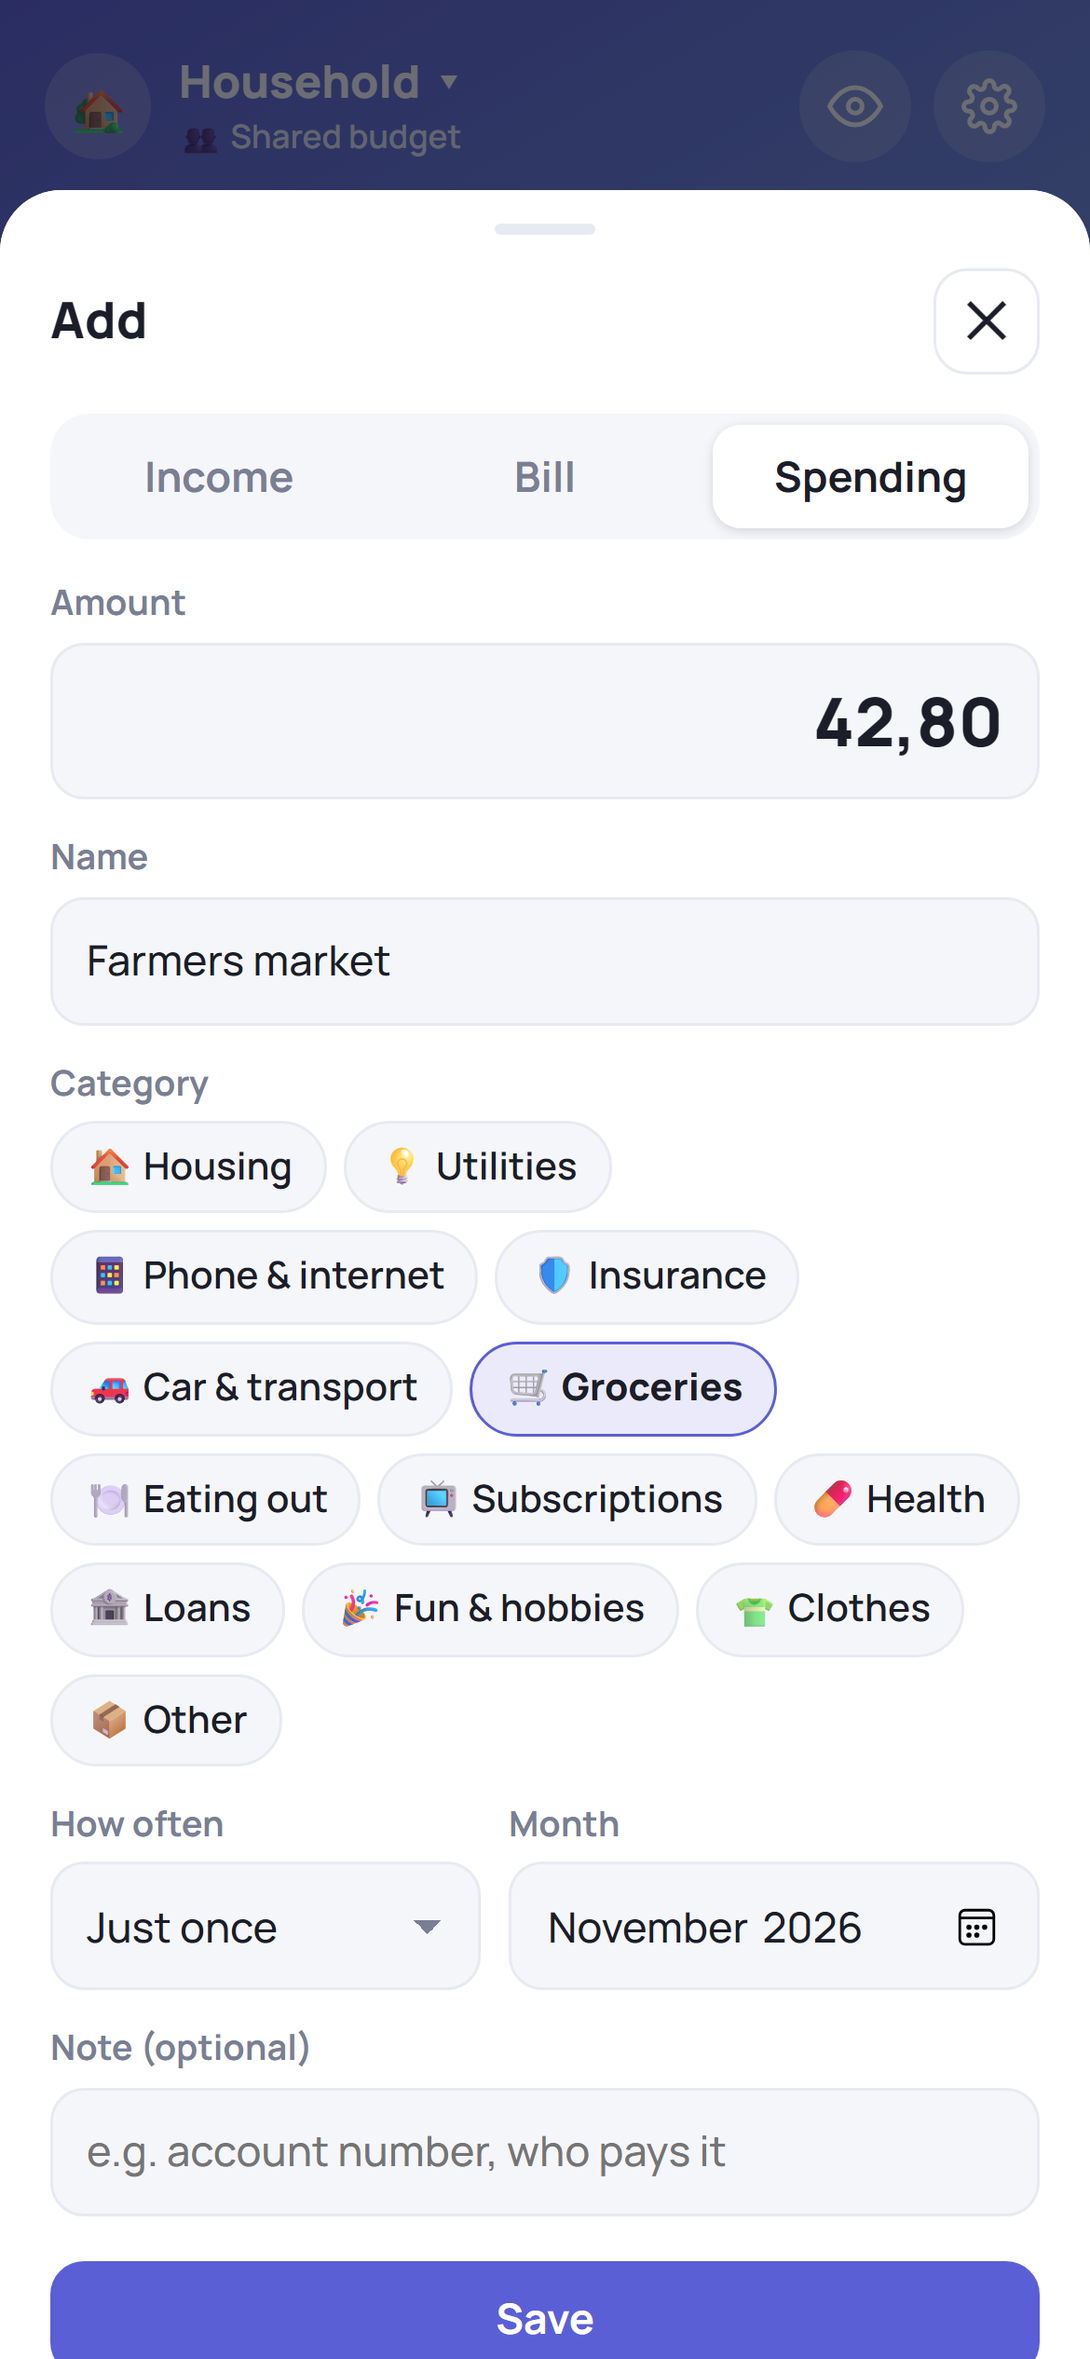
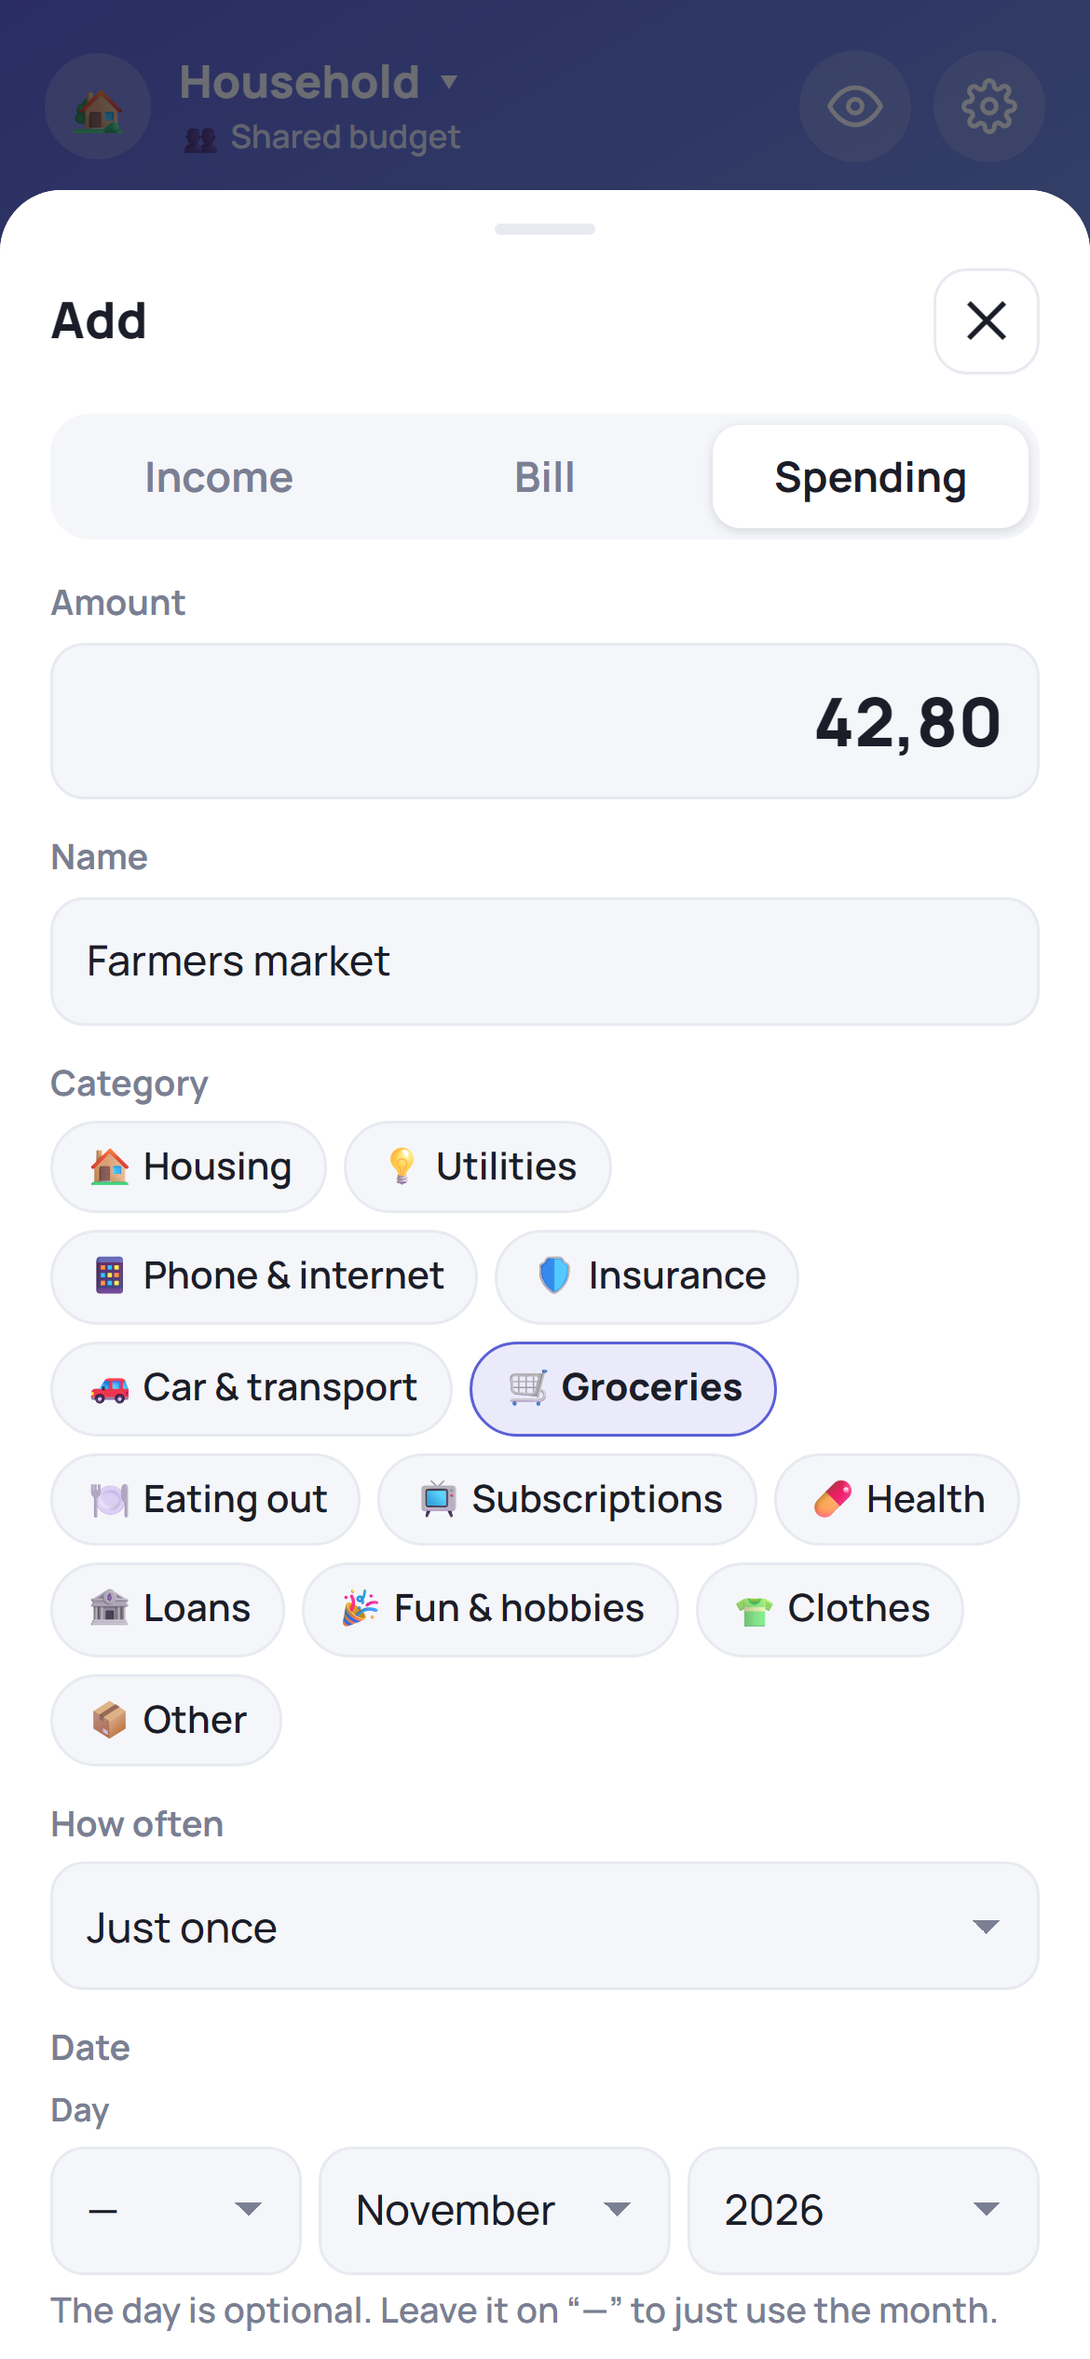
Optional day for every item (day/month/year dropdowns), fill in earlier months from current income/bills, Income higher on the page (20261122e)

diff --git a/docs/index.html b/docs/index.html
@@ -259,8 +259,8 @@ input:focus,select:focus,textarea:focus{outline:2px solid var(--accent);outline-
 .err{color:var(--bad);font-size:.9em;min-height:1.2em;margin:4px 0 8px}
 .demo{background:#00000030;color:#fff;font-size:.78em;font-weight:700;text-align:center;padding:5px 10px}
 </style>
-<script src="config.js?v=20261122d"></script>
-<script type="module" src="cloud.js?v=20261122d"></script>
+<script src="config.js?v=20261122e"></script>
+<script type="module" src="cloud.js?v=20261122e"></script>
 </head>
 <body>
 <div id="app"></div>
@@ -269,7 +269,7 @@ input:focus,select:focus,textarea:focus{outline:2px solid var(--accent);outline-
 
 <script>
 "use strict";
-const APP_VERSION = "20261122d";
+const APP_VERSION = "20261122e";
 // demo mode: no Firebase config, or ?demo on a local test server (never touches the real account)
 const LOCAL = !window.BUDGET_FIREBASE || (/^(localhost|127\.0\.0\.1)$/.test(location.hostname) && /[?&]demo\b/.test(location.search));
 
@@ -535,7 +535,8 @@ function itemRow(i, m) {
   const c = cat(i.category);
   const late = i.type === "bill" && !i.paid && !i.skipped && ((m === thisMonth() && i.due && i.due < today().getDate()) || m < thisMonth());
   const meta = [];
-  if (i.type === "bill" && i.due) meta.push("due " + ord(i.due));
+  if (i.due) meta.push(i.type === "bill" ? "due " + ord(i.due) : i.repeat && i.repeat !== "once" ? "on the " + ord(i.due)
+    : new Date(+m.slice(0, 4), +m.slice(5) - 1, Math.min(i.due, daysIn(m))).toLocaleDateString("en-GB", { day: "numeric", month: "short" }));
   if (i.repeat && i.repeat !== "once") meta.push(REPEATS[i.repeat][0].toLowerCase());
   if (i.until) meta.push("until " + monthName(i.until, { month: "short", year: "numeric" }));
   if (i.note) meta.push(i.note);
@@ -576,7 +577,7 @@ function renderMonth() {
   const inc = items.filter(i => i.type === "income").sort((a, b) => b.amt - a.amt);
   const sorters = { due: (a, b) => (a.due || 99) - (b.due || 99) || a.name.localeCompare(b.name), amount: (a, b) => b.amt - a.amt, name: (a, b) => (a.name || "").localeCompare(b.name || ""), unpaid: (a, b) => a.paid - b.paid || (a.due || 99) - (b.due || 99) };
   const bills = items.filter(i => i.type === "bill").sort(sorters[l.billSort] || sorters.due);
-  const spend = items.filter(i => i.type === "spend").sort((a, b) => (b.createdAt || 0) - (a.createdAt || 0));
+  const spend = items.filter(i => i.type === "spend").sort((a, b) => (b.due || 0) - (a.due || 0) || (b.createdAt || 0) - (a.createdAt || 0));
   const moves = goalMoves(m);
   const isNow = m === thisMonth();
   const daysLeft = isNow ? daysIn(m) - today().getDate() + 1 : 0;
@@ -612,6 +613,9 @@ function renderMonth() {
 
   // alerts
   const alerts = [];
+  const laterInc = S.entries.filter(e => e.type === "income" && e.repeat && e.repeat !== "once" && e.start > m);
+  if (!inc.length && laterInc.length) alerts.push(`<div class="alert">💡 <div style="flex:1"><b>No income in ${esc(monthName(m, { month: "long" }))} yet.</b> Your ${esc(laterInc.map(e => e.name).slice(0, 2).join(" and "))} start${laterInc.length === 1 ? "s" : ""} later.
+    <div style="margin-top:8px"><button class="btn sm pri" data-act="backfill" data-type="income" data-from="${m}">Fill in from your current income</button></div></div></div>`);
   if (t.left < 0) alerts.push(`<div class="alert bad">📉 <div>You're planning to spend <b>${money(-t.left)}</b> more than comes in this month.</div></div>`);
   const lims = limitsFor(m), over = lims.filter(x => x.used > x.limit);
   if (over.length) alerts.push(`<div class="alert bad">🚦 <div><b>Over the limit:</b> ${over.map(x => esc(x.c.name)).join(", ")}</div></div>`);
@@ -665,8 +669,8 @@ function renderMonth() {
     </div>
     <div class="grid">
       ${rings}
+      ${section("Income", inc, "income", t.income, "incCard", `<button class="lk" data-act="backfill" data-type="income">Earlier months</button>`)}
       ${limCard}
-      ${section("Income", inc, "income", t.income, "incCard")}
       ${moves.length ? `<div><div class="sec"><span>Into savings · ${money(t.saved, { round: true })}</span></div><div class="card flat">${moves.map(d => `<div class="item" data-act="goal" data-id="${esc(d.goal.id)}"><div class="emo" style="background:${d.goal.color || "#8b5cf6"}1f">${esc(d.goal.emoji || "🐷")}</div><div class="main"><div class="name">${esc(d.goal.name)}</div><div class="meta">${esc(new Date(d.d).toLocaleDateString("en-GB", { day: "numeric", month: "short" }))}${b?.kind === "shared" && d.by ? " · by " + esc(whoName(d.by)) : ""}</div></div><div class="amt">${money(num(d.a))}</div></div>`).join("")}</div></div>` : ""}
       ${catCard}${whoCard}
       <div><div class="sec">Notes for ${esc(monthName(m, { month: "long" }))}</div><div class="card"><textarea id="note" placeholder="Anything to remember this month…">${esc(md.note || "")}</textarea></div></div>
@@ -787,14 +791,9 @@ function openEntry(id, type) {
     <label class="f"><span>Amount</span><input class="amount" id="fAmt" inputmode="decimal" autocomplete="off" placeholder="0,00" value="${esc(e ? String(e.amount).replace(".", ",") : "")}" autofocus></label>
     <label class="f"><span>Name</span><input type="text" id="fName" maxlength="60" placeholder="e.g. Rent, Electricity, Salary" value="${esc(f.name)}"></label>
     <div class="f"><span>Category</span><div class="chips" id="fCats"></div></div>
-    <div class="cols">
-      <label class="f"><span>How often</span><select id="fRep">${Object.entries(REPEATS).map(([k, [t]]) => `<option value="${k}" ${f.repeat === k ? "selected" : ""}>${t}</option>`).join("")}</select></label>
-      <label class="f"><span id="fStartL">Month</span><input type="month" id="fStart" value="${esc(f.start)}"></label>
-    </div>
-    <div class="cols" id="billRow">
-      <label class="f"><span>Due on day</span><input type="number" id="fDue" min="1" max="31" inputmode="numeric" placeholder="e.g. 15" value="${esc(f.due || "")}"></label>
-      <label class="f" id="untilF"><span>Last month (optional)</span><input type="month" id="fUntil" value="${esc(f.until || "")}"></label>
-    </div>
+    <label class="f"><span>How often</span><select id="fRep">${Object.entries(REPEATS).map(([k, [t]]) => `<option value="${k}" ${f.repeat === k ? "selected" : ""}>${t}</option>`).join("")}</select></label>
+    <div class="f"><span id="fStartL">Date</span>${dateSel("fS", f.start, f.due)}<span class="muted small" id="fDayHint" style="display:block;margin-top:4px;font-weight:600"></span></div>
+    <div class="f" id="untilF"><span>Last month (optional, leave “keeps going” if it never ends)</span>${monthSel("fU", f.until, true)}</div>
     <label class="check" id="autoRow"><input type="checkbox" id="fAuto" ${f.auto ? "checked" : ""}> Autopay (direct debit) — ticks itself on the due day</label>
     <label class="f"><span>Note (optional)</span><input type="text" id="fNote" maxlength="120" placeholder="e.g. account number, who pays it" value="${esc(f.note || "")}"></label>
     ${repeating ? `<h4>Just for ${esc(monthName(m))}</h4><div class="box">
@@ -808,26 +807,27 @@ function openEntry(id, type) {
       const kind = f.type === "income" ? "in" : "out";
       if (!cats().some(c => c.id === f.category && c.kind === kind)) f.category = (cats().find(c => c.kind === kind) || {}).id;
       sh.querySelector("#fCats").innerHTML = catChips(kind, f.category);
-      sh.querySelector("#fDue").closest("label").style.display = f.type === "bill" ? "" : "none";
       sh.querySelector("#autoRow").style.display = f.type === "bill" ? "" : "none";
       const rep = sh.querySelector("#fRep").value !== "once";
       sh.querySelector("#untilF").style.display = rep ? "" : "none";
-      sh.querySelector("#billRow").style.display = f.type === "bill" || rep ? "" : "none";
-      sh.querySelector("#fStartL").textContent = rep ? "Starting from" : "Month";
+      sh.querySelector("#fStartL").textContent = rep ? "Starting from" : (f.type === "bill" ? "Due date" : "Date");
+      sh.querySelector("#fSDL").textContent = rep ? (f.type === "bill" ? "Due on day" : f.type === "income" ? "Paid on day" : "On day") : "Day";
+      sh.querySelector("#fDayHint").textContent = rep ? "The day is optional. It repeats on that day each time." : "The day is optional. Leave it on “—” to just use the month.";
     };
     sync();
     sh.querySelector("#tsel").onclick = ev => { const b = ev.target.closest("button"); if (!b) return; f.type = b.dataset.t;
       if (!e) sh.querySelector("#fRep").value = f.type === "spend" ? "once" : "monthly"; sync(); };
     sh.querySelector("#fRep").onchange = sync;
+    sh.querySelector("#fSM").onchange = sh.querySelector("#fSY").onchange = () => fixDays(sh, "fS");
     sh.querySelector("#fCats").onclick = ev => { const b = ev.target.closest("[data-cat]"); if (!b) return; f.category = b.dataset.cat; sync(); };
     sh.querySelector("#save").onclick = () => {
       const amount = num(sh.querySelector("#fAmt").value);
       if (!amount) { toast("Enter an amount"); sh.querySelector("#fAmt").focus(); return; }
       const repeat = sh.querySelector("#fRep").value;
-      const start = sh.querySelector("#fStart").value || m;
-      const until = repeat === "once" ? null : (sh.querySelector("#fUntil").value || null);
+      const start = readMonthSel(sh, "fS") || m;
+      const until = repeat === "once" ? null : readMonthSel(sh, "fU");
       if (until && until < start) { toast("The last month is before the start"); return; }
-      const due = f.type === "bill" ? Math.min(31, Math.max(1, parseInt(sh.querySelector("#fDue").value) || 0)) || null : null;
+      const due = parseInt(sh.querySelector("#fSD").value) || null;
       const data = { type: f.type, name: sh.querySelector("#fName").value.trim() || cat(f.category).name, amount, category: f.category || null,
         repeat, start, until, due, auto: f.type === "bill" && sh.querySelector("#fAuto").checked, note: sh.querySelector("#fNote").value.trim(),
         by: e?.by || S.user.uid, createdAt: e?.createdAt || Date.now(), updatedAt: Date.now() };
@@ -872,6 +872,72 @@ function openLimits() {
       const next = {};
       sh.querySelectorAll("[data-lim]").forEach(i => { const v = num(i.value); if (v > 0) next[i.dataset.lim] = v; });
       w(Store.replaceBudgetField(b.id, "limits", next)); closeSheet(); toast("Limits saved");
+    };
+  });
+}
+
+// month + year dropdowns (work the same in every browser, no typing)
+function monthSel(id, val, optional) {
+  const none = optional && !val;
+  const [vy, vm] = (val || thisMonth()).split("-").map(Number), cy = today().getFullYear();
+  const years = []; for (let y = Math.min(vy, cy - 6); y <= Math.max(vy, cy + 6); y++) years.push(y);
+  return `<div class="cols" style="gap:6px"><label class="f" style="margin:0"><select id="${id}M">${optional ? `<option value="" ${none ? "selected" : ""}>— keeps going</option>` : ""}${Array.from({ length: 12 }, (_, i) =>
+    `<option value="${pad(i + 1)}" ${!none && i + 1 === vm ? "selected" : ""}>${new Date(2000, i, 1).toLocaleDateString("en-GB", { month: "long" })}</option>`).join("")}</select></label>
+    <label class="f" style="margin:0"><select id="${id}Y">${years.map(y => `<option ${y === vy ? "selected" : ""}>${y}</option>`).join("")}</select></label></div>`;
+}
+const readMonthSel = (sh, id) => { const mm = sh.querySelector(`#${id}M`).value; return mm ? sh.querySelector(`#${id}Y`).value + "-" + mm : null; };
+// optional day + month + year
+function dateSel(id, month, day) {
+  return `<div style="display:grid;grid-template-columns:minmax(74px,.7fr) 2fr;gap:6px;align-items:end">
+    <label class="f" style="margin:0"><span id="${id}DL" style="font-size:.78em">Day</span><select id="${id}D"><option value="">—</option>${Array.from({ length: daysIn(month || thisMonth()) }, (_, i) =>
+      `<option value="${i + 1}" ${i + 1 === Number(day) ? "selected" : ""}>${i + 1}</option>`).join("")}</select></label>
+    ${monthSel(id, month)}</div>`;
+}
+function fixDays(sh, id) {   // keep the day list right for the chosen month (28-31 days)
+  const sel = sh.querySelector(`#${id}D`), keep = sel.value, n = daysIn(readMonthSel(sh, id));
+  sel.innerHTML = `<option value="">—</option>` + Array.from({ length: n }, (_, i) => `<option value="${i + 1}">${i + 1}</option>`).join("");
+  sel.value = keep && +keep <= n ? keep : (keep ? String(n) : "");
+}
+
+// Fill in earlier months: move the start of repeating income/bills back so past months include them
+function openBackfill(type = "income", from) {
+  let kind = type;
+  const fromDefault = from || mk(mi(thisMonth()) - 6);
+  openSheet(`${head("Fill in earlier months")}
+    <p class="muted small" style="margin-top:-6px">Picks up what you have now and makes it count in earlier months too — handy when you start using the app mid-year and want the past months (and the Year view) to be right.</p>
+    <div class="seg" id="bkT">${[["income", "Income"], ["bill", "Bills"]].map(([k, t]) => `<button type="button" data-k="${k}" class="${k === kind ? "on" : ""}">${t}</button>`).join("")}</div>
+    <div class="f"><span>Count them from</span>${monthSel("bkF", fromDefault)}</div>
+    <div id="bkL"></div>
+    <div class="actions"><button class="btn pri" id="bkS">Fill in</button></div>`, sh => {
+    const draw = () => {
+      const f = readMonthSel(sh, "bkF");
+      const list = S.entries.filter(e => e.type === kind && e.repeat && e.repeat !== "once" && e.start > f && (!e.until || e.until >= f))
+        .sort((a, b) => num(b.amount) - num(a.amount));
+      sh.querySelector("#bkL").innerHTML = list.length ? `<div class="f"><span>${kind === "income" ? "Your income" : "Your bills"} that start after ${esc(monthName(f))}</span>${list.map(e => {
+        const step = REPEATS[e.repeat][1], k = Math.ceil((mi(e.start) - mi(f)) / step), ns = mk(mi(e.start) - k * step), c = cat(e.category);
+        return `<label class="check" style="margin:0;padding:9px 0;border-top:1px solid var(--line)"><input type="checkbox" data-bk="${esc(e.id)}" data-ns="${ns}" checked>
+          <span style="flex:1"><b>${esc(c.emoji)} ${esc(e.name)}</b> · ${money(num(e.amount))}<br><span class="muted small">${esc(REPEATS[e.repeat][0].toLowerCase())} · now from ${esc(monthName(e.start, { month: "short", year: "numeric" }))} → from ${esc(monthName(ns, { month: "short", year: "numeric" }))}</span></span></label>`; }).join("")}</div>
+        ${kind === "bill" ? `<p class="muted small">Bills in months before this one are ticked as paid.</p>` : ""}`
+        : `<p class="muted">Nothing to fill in — all your repeating ${kind === "income" ? "income" : "bills"} already ${kind === "income" ? "counts" : "count"} from ${esc(monthName(f))} or earlier.</p>`;
+      sh.querySelector("#bkS").disabled = !list.length;
+    };
+    draw();
+    sh.querySelector("#bkT").onclick = ev => { const b = ev.target.closest("[data-k]"); if (!b) return; kind = b.dataset.k; sh.querySelectorAll("#bkT button").forEach(x => x.classList.toggle("on", x === b)); draw(); };
+    sh.querySelector("#bkFM").onchange = draw; sh.querySelector("#bkFY").onchange = draw;
+    sh.querySelector("#bkS").onclick = () => {
+      const picked = [...sh.querySelectorAll("[data-bk]:checked")];
+      if (!picked.length) { toast("Tick at least one"); return; }
+      const cur = thisMonth();
+      for (const box of picked) {
+        const e = S.entries.find(x => x.id === box.dataset.bk); if (!e) continue;
+        const ns = box.dataset.ns, oldStart = e.start;
+        w(Store.saveItem(S.bid, "entries", e.id, { ...strip(e), start: ns, updatedAt: Date.now() }).done);
+        if (e.type === "bill" && !e.auto) {
+          const step = REPEATS[e.repeat][1];
+          for (let i = mi(ns); i < mi(oldStart) && mk(i) < cur; i += step) w(Store.setMonth(S.bid, mk(i), { paid: { [e.id]: true } }));
+        }
+      }
+      closeSheet(); toast(`${picked.length} filled in from ${monthName(readMonthSel(sh, "bkF"), { month: "short", year: "numeric" })}`);
     };
   });
 }
@@ -1204,6 +1270,7 @@ document.addEventListener("click", ev => {
     settings: openSettings,
     budgets: openBudgets,
     limits: openLimits,
+    backfill: () => openBackfill(t.dataset.type || "income", t.dataset.from),
     jump: () => document.getElementById(t.dataset.to)?.scrollIntoView({ behavior: "smooth", block: "start" }),
     goal: () => openGoal(t.dataset.id),
     gmove: () => openMove(t.dataset.id, +t.dataset.dir),

diff --git a/docs/cloud.js b/docs/cloud.js
@@ -30,7 +30,7 @@ if (cfg) {
       [k, v === null ? F.deleteField() : (v && typeof v === "object" && !Array.isArray(v)) ? nulls(v) : v]));
 
     window.Cloud = {
-      version: "20261122d",   // must match APP_VERSION in index.html
+      version: "20261122e",   // must match APP_VERSION in index.html
       signIn: (email, pw) => A.signInWithEmailAndPassword(auth, email, pw),
       signOut: () => A.signOut(auth),
       resetPassword: email => A.sendPasswordResetEmail(auth, email),

diff --git a/README.md b/README.md
@@ -43,6 +43,8 @@ Enter your income and bills once, tick them off as you pay, and always know what
 - **Enter bills once.** Choose how often each one comes (every month, every 2, 3 or 6 months, every year, or just once), and optionally when it ends. It appears in every month on its own.
 - **Tick bills off.** Direct debits (*Autopay*) tick themselves on their due day.
 - **Upcoming payments** show "today", "in 2 days" or "3 days late", with overdue and due-soon warnings.
+- **Optional dates:** give anything a day as well as a month (a due day, a pay day or the date of a purchase), or just pick the month. Day, month and year are dropdowns, so there's nothing to type.
+- **Fill in earlier months:** started mid-year? One tap counts your current income (and bills) in the months before, so past months and the Year view are right. Past bills are ticked as paid.
 - **Just this month:** change a bill's amount or skip it for one month without touching the others.
 - **Spending limits** for each category, e.g. "€194 left of €600", with "You're doing great 👍", "Getting close" or "Over by …".
 - **Savings goals** with a target and a date. The app works out how much to put aside each month, and money you put in counts in that month's budget.
@@ -77,7 +79,9 @@ Give categories such as Groceries or Eating out a monthly limit. Each limit show
 
 <img src="screenshots/phone-add.png" width="32%" alt="Phone: add spending">
 
-On the phone, the **+** button adds spending, a bill or income in a few taps. Amounts work with a comma or a dot.
+On the phone, the **+** button adds spending, a bill or income in a few taps. Amounts work with a comma or a dot. The date is optional: pick a day, month and year, or leave the day on “—” to just use the month.
+
+If a month has no income yet because you only started using the app later, the month shows a **Fill in from your current income** button. The same tool is under **Income → Earlier months**.
 
 ### The year
 
